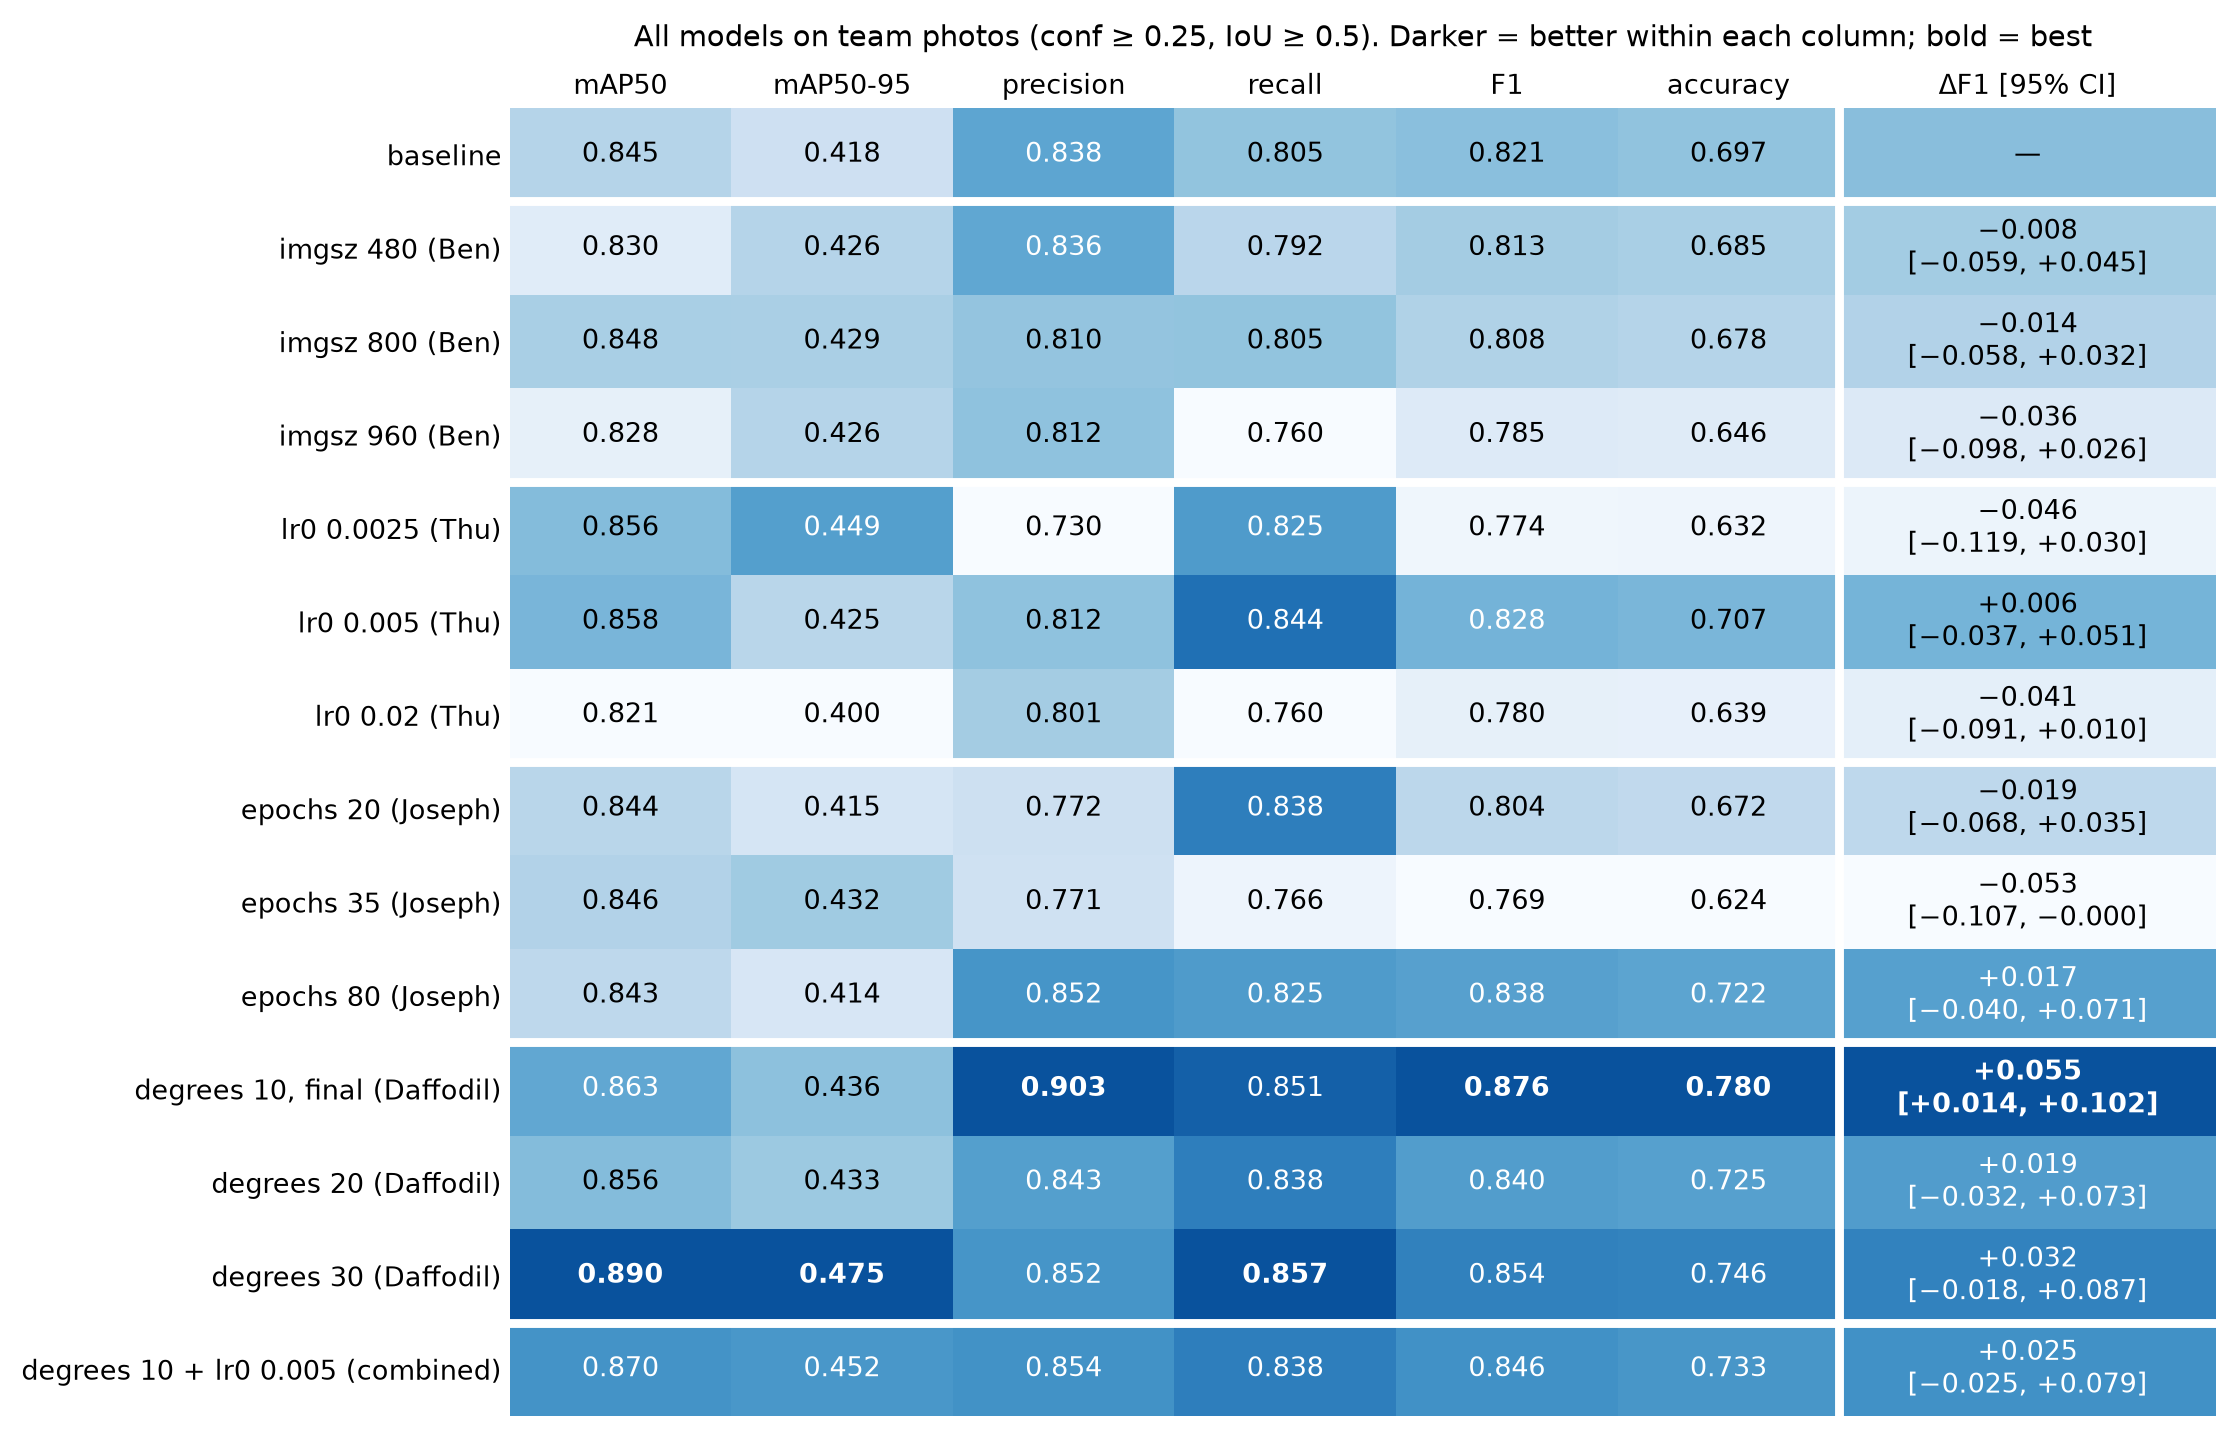
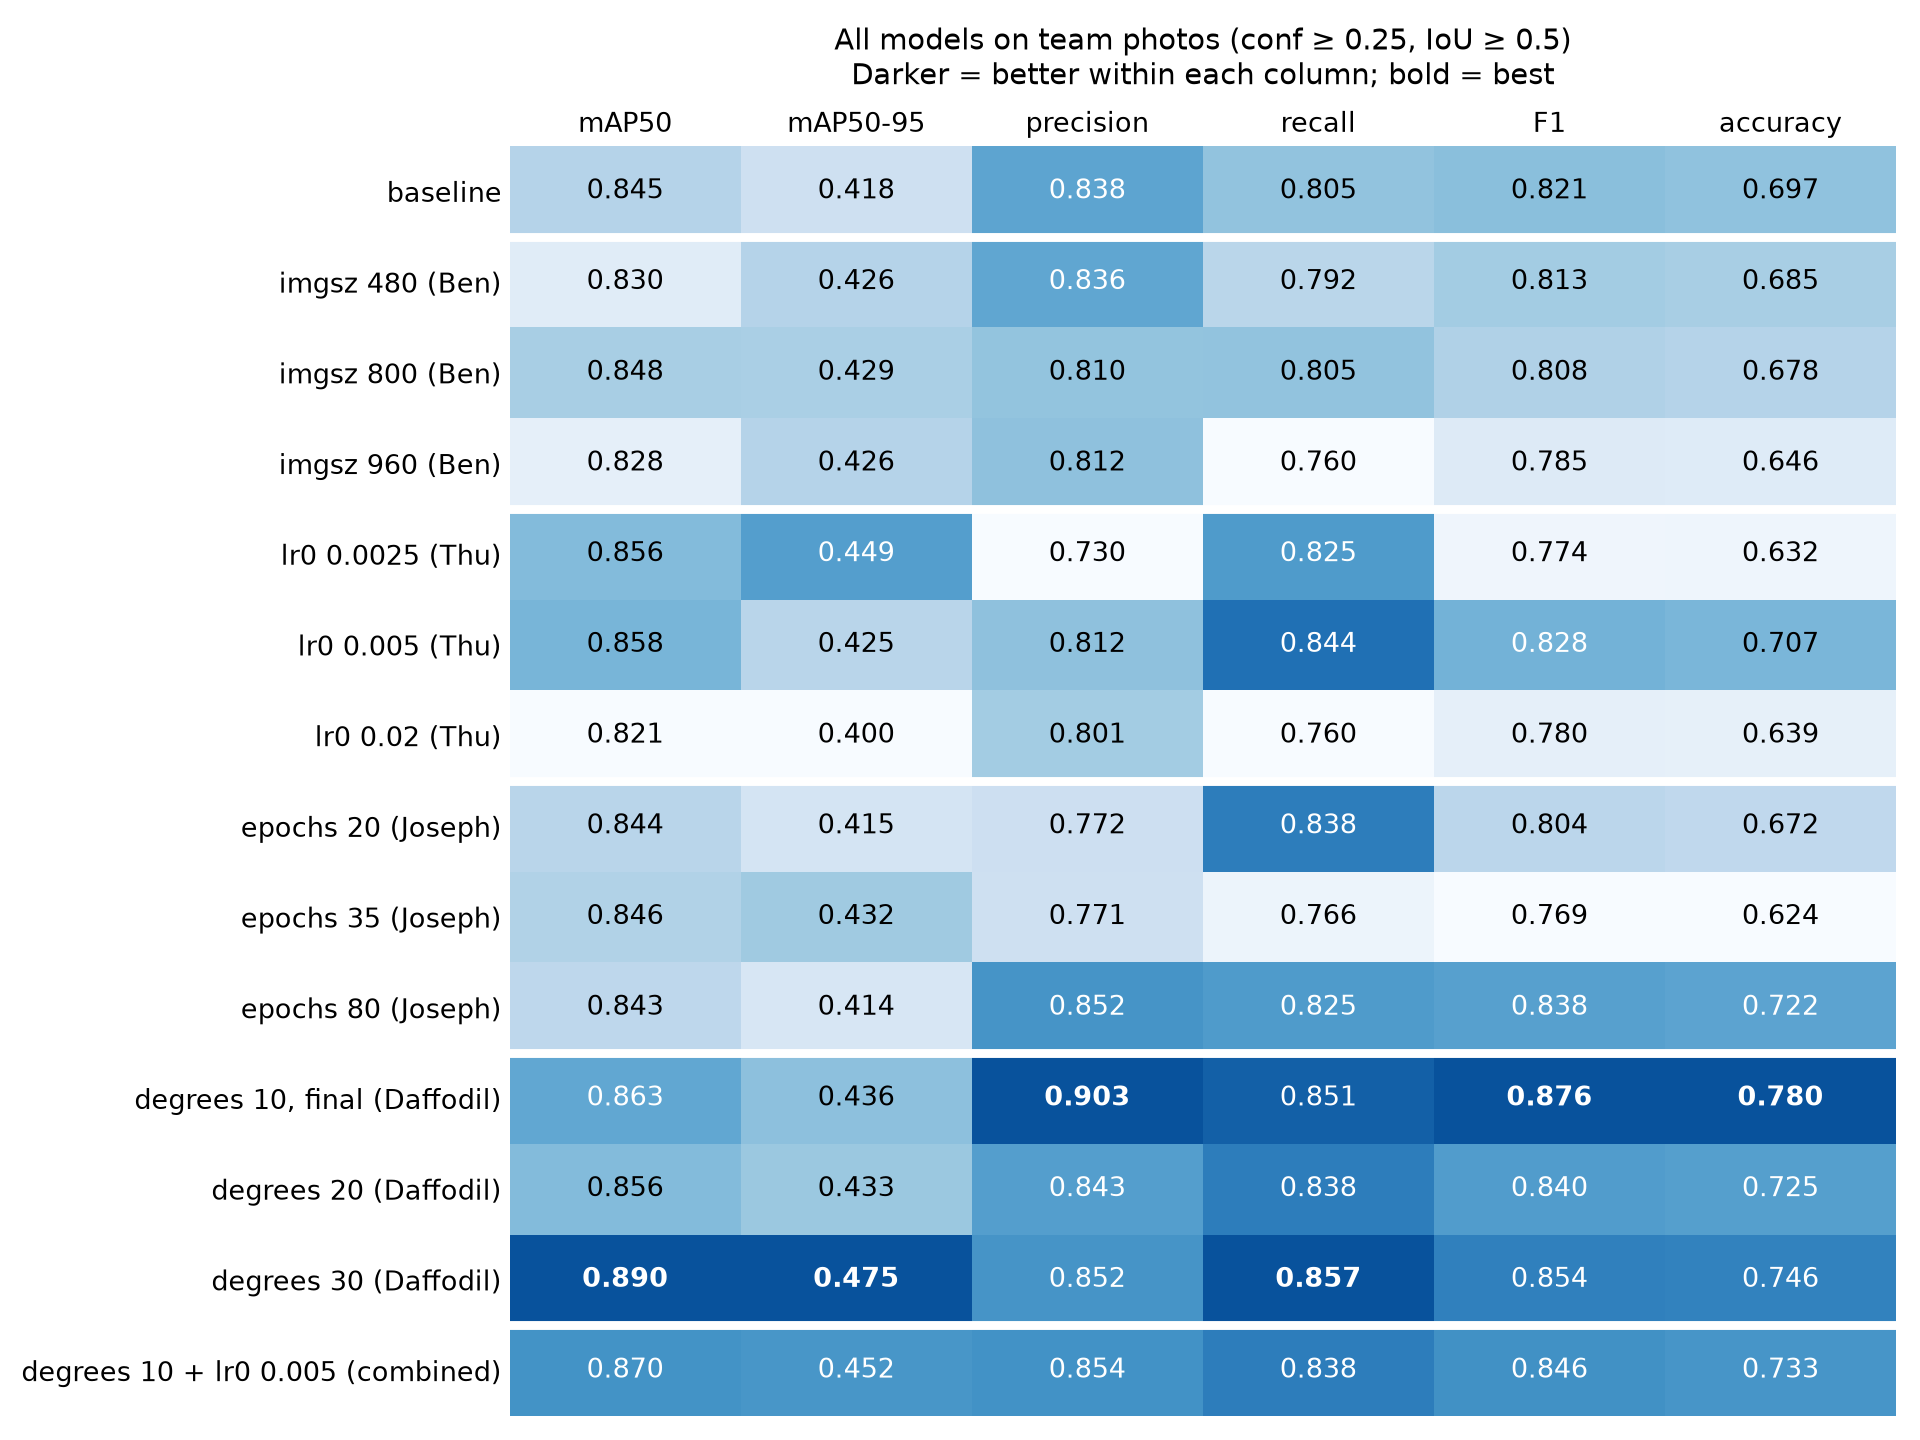
Drop the ΔF1 column from the all-models matrix

diff --git a/report/all_models_matrix.py b/report/all_models_matrix.py
@@ -10,59 +10,47 @@ import matplotlib.pyplot as plt
 import numpy as np
 
 # Values from the group comparison in Gesture_YOLO_Tuning_Group.ipynb
-# (our photos; P/R/F1/accuracy at conf 0.25, IoU 0.5; ΔF1 with its 95% paired-bootstrap interval).
+# (our photos; precision, recall, F1 and accuracy at conf 0.25, IoU 0.5).
 rows = [
-    ("baseline",                          0.845, 0.418, 0.838, 0.805, 0.821, 0.697, None),
-    ("imgsz 480 (Ben)",                   0.830, 0.426, 0.836, 0.792, 0.813, 0.685, (-0.008, -0.059, +0.045)),
-    ("imgsz 800 (Ben)",                   0.848, 0.429, 0.810, 0.805, 0.808, 0.678, (-0.014, -0.058, +0.032)),
-    ("imgsz 960 (Ben)",                   0.828, 0.426, 0.812, 0.760, 0.785, 0.646, (-0.036, -0.098, +0.026)),
-    ("lr0 0.0025 (Thu)",                  0.856, 0.449, 0.730, 0.825, 0.774, 0.632, (-0.046, -0.119, +0.030)),
-    ("lr0 0.005 (Thu)",                   0.858, 0.425, 0.812, 0.844, 0.828, 0.707, (+0.006, -0.037, +0.051)),
-    ("lr0 0.02 (Thu)",                    0.821, 0.400, 0.801, 0.760, 0.780, 0.639, (-0.041, -0.091, +0.010)),
-    ("epochs 20 (Joseph)",                0.844, 0.415, 0.772, 0.838, 0.804, 0.672, (-0.019, -0.068, +0.035)),
-    ("epochs 35 (Joseph)",                0.846, 0.432, 0.771, 0.766, 0.769, 0.624, (-0.053, -0.107, -0.000)),
-    ("epochs 80 (Joseph)",                0.843, 0.414, 0.852, 0.825, 0.838, 0.722, (+0.017, -0.040, +0.071)),
-    ("degrees 10, final (Daffodil)",      0.863, 0.436, 0.903, 0.851, 0.876, 0.780, (+0.055, +0.014, +0.102)),
-    ("degrees 20 (Daffodil)",             0.856, 0.433, 0.843, 0.838, 0.840, 0.725, (+0.019, -0.032, +0.073)),
-    ("degrees 30 (Daffodil)",             0.890, 0.475, 0.852, 0.857, 0.854, 0.746, (+0.032, -0.018, +0.087)),
-    ("degrees 10 + lr0 0.005 (combined)", 0.870, 0.452, 0.854, 0.838, 0.846, 0.733, (+0.025, -0.025, +0.079)),
+    ("baseline",                          0.845, 0.418, 0.838, 0.805, 0.821, 0.697),
+    ("imgsz 480 (Ben)",                   0.830, 0.426, 0.836, 0.792, 0.813, 0.685),
+    ("imgsz 800 (Ben)",                   0.848, 0.429, 0.810, 0.805, 0.808, 0.678),
+    ("imgsz 960 (Ben)",                   0.828, 0.426, 0.812, 0.760, 0.785, 0.646),
+    ("lr0 0.0025 (Thu)",                  0.856, 0.449, 0.730, 0.825, 0.774, 0.632),
+    ("lr0 0.005 (Thu)",                   0.858, 0.425, 0.812, 0.844, 0.828, 0.707),
+    ("lr0 0.02 (Thu)",                    0.821, 0.400, 0.801, 0.760, 0.780, 0.639),
+    ("epochs 20 (Joseph)",                0.844, 0.415, 0.772, 0.838, 0.804, 0.672),
+    ("epochs 35 (Joseph)",                0.846, 0.432, 0.771, 0.766, 0.769, 0.624),
+    ("epochs 80 (Joseph)",                0.843, 0.414, 0.852, 0.825, 0.838, 0.722),
+    ("degrees 10, final (Daffodil)",      0.863, 0.436, 0.903, 0.851, 0.876, 0.780),
+    ("degrees 20 (Daffodil)",             0.856, 0.433, 0.843, 0.838, 0.840, 0.725),
+    ("degrees 30 (Daffodil)",             0.890, 0.475, 0.852, 0.857, 0.854, 0.746),
+    ("degrees 10 + lr0 0.005 (combined)", 0.870, 0.452, 0.854, 0.838, 0.846, 0.733),
 ]
-cols = ["mAP50", "mAP50-95", "precision", "recall", "F1", "accuracy", "ΔF1 [95% CI]"]
+cols = ["mAP50", "mAP50-95", "precision", "recall", "F1", "accuracy"]
 
-vals = np.array([[*r[1:7], r[7][0] if r[7] else 0.0] for r in rows])
+vals = np.array([r[1:] for r in rows])
 # Shade each column by its own range, so the best model in every metric is darkest.
 lo, hi = vals.min(axis=0), vals.max(axis=0)
 shade = (vals - lo) / np.where(hi > lo, hi - lo, 1)
 
-fig, ax = plt.subplots(figsize=(14, 9))
-# Equal-width metric columns and a wider ΔF1 column for the interval text.
-edges = np.concatenate([[0], np.cumsum([1] * 6 + [1.7])])
-mids = (edges[:-1] + edges[1:]) / 2
-ax.pcolormesh(edges, np.arange(len(rows) + 1) - 0.5, shade, cmap="Blues", vmin=0, vmax=1.15)
-ax.set_xlim(edges[0], edges[-1]); ax.set_ylim(len(rows) - 0.5, -0.5)
-for i, r in enumerate(rows):
+fig, ax = plt.subplots(figsize=(12, 9))
+ax.imshow(shade, cmap="Blues", aspect="auto", vmin=0, vmax=1.15)
+for i in range(len(rows)):
     for j in range(len(cols)):
-        if j < 6:
-            txt = f"{vals[i, j]:.3f}"
-        elif r[7] is None:
-            txt = "—"
-        else:
-            d, a, b = r[7]
-            txt = f"{d:+.3f}\n[{a:+.3f}, {b:+.3f}]"
-        ax.text(mids[j], i, txt.replace("-", "−"), ha="center", va="center", fontsize=12,
+        ax.text(j, i, f"{vals[i, j]:.3f}", ha="center", va="center", fontsize=12,
                 color="white" if shade[i, j] > 0.55 else "black",
                 fontweight="bold" if vals[i, j] == hi[j] else "normal")
-ax.set_xticks(mids, cols, fontsize=12)
+ax.set_xticks(range(len(cols)), cols, fontsize=12)
 ax.xaxis.tick_top()
 ax.set_yticks(range(len(rows)), [r[0] for r in rows], fontsize=12)
 # Separate the hyperparameter groups.
 for y in (0.5, 3.5, 6.5, 9.5, 12.5):
     ax.axhline(y, color="white", lw=4)
-ax.axvline(edges[6], color="white", lw=4)
 ax.tick_params(length=0)
 for s in ax.spines.values():
     s.set_visible(False)
-ax.set_title("All models on team photos (conf ≥ 0.25, IoU ≥ 0.5). Darker = better within each column; bold = best",
+ax.set_title("All models on team photos (conf ≥ 0.25, IoU ≥ 0.5)\nDarker = better within each column; bold = best",
              fontsize=13, pad=12)
 fig.tight_layout()
 fig.savefig(Path(__file__).resolve().parent.parent / "results" / "all_models_matrix.png", dpi=160)
